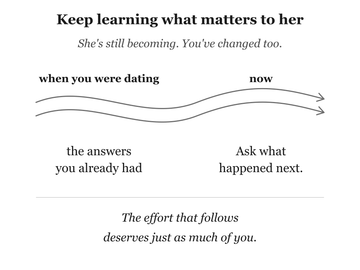
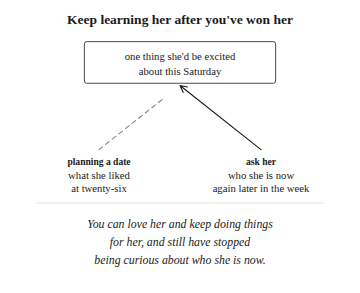
Working apparatus: Ch13 plate standalone read (NOT PASS, three edits); revision in progress
Claude-Session: https://claude.ai/code/session_016ZTaUDtmcUCmLiG1o6hFFK

diff --git a/runs/ch13/plate-notes.md b/runs/ch13/plate-notes.md
@@ -1,22 +1,51 @@
 # Chapter 13 plate notes (attention version, concept C)
 
 Designer desk, draft mode (gw-plate Stage 3). 2026-09-30 14:42 (clock read).
+Revised in gw-plate Stage 6 (the one revision), 2026-09-30 15:03 (clock read),
+against `plate-read.md` (Panel standalone read: NOT PASS, three edits). See
+"Stage 6 revision" below; the sections after it describe the current plate.
 Picked concept: C, "Two routes to Saturday" (`plate-pick.md`; runner-up B).
 Earlier notes for the effort/action plate are in `pre-split/plate-notes.md` and git.
+
+## Stage 6 revision (plate-read.md), applied
+
+1. **Caption (required).** Replaced "What stopped was your curiosity / about who
+   she is now." with the Conversation sentence, trimming only "your wife" to "her"
+   (grounding passes): *You can love her and keep doing things / for her, and still
+   have stopped / being curious about who she is now.* It would not fit on two
+   lines: line one alone measured 24..616 against the 40px margin at the house's
+   21px italic. So it runs to three lines, broken so the last line is the point
+   ("being curious about who she is now."). To make room, the canvas grew from
+   640x480 to 640x520. Nothing above the rule moved. House plates range from 360
+   to 540 tall, and the checker fixes only the width.
+2. **Left bold label (recommended).** "arrange the whole thing" is now **planning a
+   date**. The Panel's "plan it for her" is not the chapter's phrase. "planning a
+   date" is the distillation's own ("Twelve years in, planning a date, you can
+   find you no longer know what she'd want"), and it names ordinary effort, not
+   control. Grounding passes.
+3. **Right label (optional).** "and ask about it again" is now **again later in the
+   week**, which removes the repeated "ask". The Panel's "then ask again later in
+   the week" measured past the right margin at x=464 (the first try, "and again
+   later in the week", measured 310..618), so I dropped the connective. The column
+   now reads *ask her / who she is now / again later in the week*. Grounded in the
+   distillation **Challenge**, "ask about it again later in the week".
+
+The box, both lines and the title are unchanged.
 
 ## What the plate shows
 
 One target at the top, the chapter's own test: *one thing she'd be excited about
 this Saturday*. Two routes rise to it from two mirrored columns.
 
-- Left, grey and dashed: **arrange the whole thing** / what she liked / at
+- Left, grey and dashed: **planning a date** / what she liked / at
   twenty-six. It runs about three quarters of the way to the target and ends on a
   clean round cap, about 40px short. No stop bar.
-- Right, solid with an arrowhead: **ask her** / who she is now / and ask about it
-  again. It lands on the centre of the box's bottom edge (320,152).
+- Right, solid with an arrowhead: **ask her** / who she is now / again later in
+  the week. It lands on the centre of the box's bottom edge (320,152).
 
-Under the rule, the takeaway: *What stopped was your curiosity / about who she is
-now.*
+Under the rule, the takeaway, the Conversation sentence over three lines: *You can
+love her and keep doing things / for her, and still have stopped / being curious
+about who she is now.*
 
 **Carrier:** reach. Doing things for her from what you knew of her years ago falls
 short. Asking her who she is now gets there. Two routes aimed at one point, one
@@ -51,18 +80,18 @@ named ("it shows one question answered, not learning kept up").
    things for her" through the drawing, so the caption only has to say what stopped.
    It also takes "She's changed" out of the subject position, as the Panel asked.
 
-## Copy and sources (40 words, 11 text elements)
+## Copy and sources (55 words, 12 text elements; current after Stage 6)
 
 | Text | Words | Source |
 |---|---|---|
 | Keep learning her after you've won her | 7 | distillation **Mechanism**, verbatim |
 | one thing she'd be excited / about this Saturday | 8 | refined, "The date you can't plan": "You can't name one thing she'd be excited about this Saturday."; distillation **Challenge** |
-| arrange the whole thing | 4 | refined, same scene: "You want to arrange the whole thing yourself." |
+| planning a date | 3 | distillation body: "Twelve years in, planning a date, you can find you no longer know what she'd want" |
 | what she liked / at twenty-six | 5 | refined, same scene: "You know what she liked at twenty-six." |
 | ask her | 2 | refined: "So you ask her."; distillation **Challenge**: "If you can't, ask her" |
 | who she is now | 4 | refined: "What stopped was your curiosity about who she is now."; distillation **Conversation sentence** and **Lesson** |
-| and ask about it again | 5 | distillation **Challenge**: "ask her, and ask about it again later in the week"; refined: "and then asked about it again" |
-| What stopped was your curiosity / about who she is now. | 10 | refined, "When the attention changed", verbatim, one sentence over two lines |
+| again later in the week | 5 | distillation **Challenge**: "ask her, and ask about it again later in the week" |
+| You can love her and keep doing things / for her, and still have stopped / being curious about who she is now. | 21 | distillation **Conversation sentence**, verbatim except "your wife" to "her"; one sentence over three lines |
 
 Every phrase is the chapter's or the distillation's. No Author additions used. No
 numbers, no quotation, no Stoic term (so no gloss needed), no em-dash.
@@ -80,17 +109,17 @@ straight. There is no wavy or river-like line.
 
 ## Format checklist
 
-- [x] Every centred text sits on x=320 or a shared column (x=176 / x=464): 11 texts.
+- [x] Every centred text sits on x=320 or a shared column (x=176 / x=464): 12 texts.
 - [x] The drawing is centred or mirrored: the box is on x=320, and the two routes mirror on it and meet at (320,152).
-- [x] Canvas 640 wide (640x480).
-- [x] Caption count within the cap: 2 italic lines against a cap of 4.
+- [x] Canvas 640 wide (640x520 after Stage 6, to fit the three-line caption).
+- [x] Caption count within the cap: 3 italic lines against a cap of 4.
 - [x] No bare `text-anchor` attribute. All anchors are set in classes.
 - [x] Every shape has an explicit fill (the paths set `fill:none` in `.ln` and `.rule`).
-- [x] Rendered to `runs/ch13/pdf/plate.png` and looked at. Nothing clips or collides, the dashed end reads as short of the box, and the arrowhead sits under the box's centre.
+- [x] Rendered to `runs/ch13/pdf/plate.png` (1920x1560) and `plate-phone.png` (360 wide) after Stage 6, and looked at. Nothing clips or collides, the dashed end reads as short of the box, the arrowhead sits under the box's centre, and all three caption lines sit inside the margins.
 
 ## plate_check.py (Designer's run; the Publisher runs it again)
 
-`python3 scripts/plate_check.py runs/ch13/plate.svg --chapter 13`, run after the render:
+`python3 scripts/plate_check.py runs/ch13/plate.svg --chapter 13`, Stage 6 run after the re-render:
 
 ```text
 runs/ch13/plate.svg
@@ -99,11 +128,11 @@ runs/ch13/plate.svg
   [ ok ] anchor-attr anchors set in classes or inline styles only
   [ ok ] em-dash     none
   [ ok ] digits      none
-  [ ok ] canvas      640x480
+  [ ok ] canvas      640x520
   [ ok ] title       title "Keep learning her after you've won her" / aria-label "Keep learning her after you've won her" vs Mechanism "Keep learning her after you've won her"
   [ ok ] grounded    each text has a three-word match in permitted source copy
-  [ ok ] captions    2 italic lines against a cap of 4 (2 labels + subtitle + closing line)
-  [ ok ] alignment   11 centred texts on the axis or a shared column; 0 drawing blocks centred or mirrored
+  [ ok ] captions    3 italic lines against a cap of 4 (2 labels + subtitle + closing line)
+  [ ok ] alignment   12 centred texts on the axis or a shared column; 0 drawing blocks centred or mirrored
   [ ok ] ink         no rendered ink inside the 40px margin bands (dark px {'left': 0, 'right': 0, 'top': 0, 'bottom': 0})
   [ ok ] raster-current preview matches source pixels at its own scale
 ```
@@ -114,10 +143,14 @@ make room for the third line in each column.
 
 ## For the author to rule on
 
-1. **"arrange the whole thing"** stands in for the Panel's "the plan you made",
-   which the chapter never says. The fallback is "you chose the place" ("You chose
-   the place and made the reservation."), but that comes from the dinner scene, not
-   the Saturday scene.
+1. **"planning a date"** (Stage 6) replaces "arrange the whole thing" and stands in
+   for the Panel's "plan it for her", which the chapter never says. It is the
+   distillation's phrase, not the refined chapter's. If he wants the chapter's own
+   words, the fallback is "arrange the whole thing", which the Panel read as
+   calling his effort the mistake.
+4. **Canvas height** went from 480 to 520 so the Conversation sentence fits at the
+   house caption size. The other option was a smaller caption face, which would
+   break the style.
 2. **"who she is now" appears twice**, once in the right column and once in the
    takeaway. I kept it on purpose so the takeaway points back at the route that
    arrives. If it reads as repetition, the right column can drop to "ask her / and

diff --git a/runs/ch13/plate-read.md b/runs/ch13/plate-read.md
@@ -1,17 +1,40 @@
-# Chapter 13 cold plate read
+# Ch13 plate: standalone read (gw-plate Stage 5)
 
-## Before reading the distillation
+Plate: `runs/ch13/pdf/plate.png`. I read it alone first and wrote sections 1-4 before opening `runs/ch13/distillation.md`.
 
-**Ten-second phone takeaway:** My wife is still changing, so I should keep asking about what matters to her now, pay attention to her answers, and share her pleasure rather than assume I already know her from dating.
+## 1. The blind read (one sentence)
 
-**Strongest plausible misreading:** “Ask what happened next” could be taken narrowly as asking for the next event in a story, instead of maintaining curiosity about her changing life and interests.
+"If you plan her Saturday around what she liked when you met her, you'll miss. Ask her who she is now, because you're the one who stopped being curious."
 
-## Verdict: PASS
+## 2. The two lines and the box, as he reads them
 
-The cold takeaway conveys paying attention to who the couple is becoming in the reader's own words: the dating-to-now contrast makes old knowledge visibly incomplete, and “You've changed too” makes the change mutual. Interest in her answer and pleasure for her carry the intended movement from curiosity to warmth. The possible narrow reading of the challenge is contained by the headline and changing-person context; it does not displace the principal takeaway.
+- **Box**, "one thing she'd be excited about this Saturday", is the target. It's concrete and he can picture it. It works.
+- **Grey dashed line** from "arrange the whole thing / what she liked at twenty-six" stops short of the box and has no arrowhead. He reads it as effort built on old information that never reaches her. It reads as intended: a miss, not an unfinished line.
+- **Solid arrow** from "ask her / who she is now and ask about it again" reaches the box. He reads it as the move that works.
 
-**Essential edits:** None.
+## 3. The skeptic's misreading
 
-**Read:** `runs/ch13/pdf/plate.png` alone first; then `runs/ch13/plate-distillation.md` and `.claude/agents/gw-panel.md`.
+- **"Arranging is the wrong move."** The bold label on the losing branch is "arrange the whole thing", so a man who plans dates reads it as the plate calling his effort the mistake and telling him to stop leading and just ask. The chapter doesn't say that. Its point is that the effort is real and the information behind it is stale. Nothing on the plate says the effort is fine. This is the main misreading.
+- **Accusation.** The caption "What stopped was your curiosity" points at him with nothing to soften it. Without the concession that he still loves her and still does things for her, a defensive reader hears "you stopped caring," which is an accusation.
+- **"She changed" as a grievance.** This is mild. "what she liked at twenty-six" against "who she is now" can be read as "she's not the woman I married." The caption puts the change on his curiosity, not on her, so the plate mostly blocks this. It's a low risk.
+- **"won her"** is trophy language, but it is the mechanism verbatim, so I note it and don't propose an edit.
 
-**Not read:** The chapter, brief, prior reports, or other manuscript materials.
+## 4. Layout defects
+
+- The right label repeats "ask": "**ask her** / who she is now / and ask about it again". The second "ask" is tied to the time element that's missing. Minor.
+- The two lines end at different heights (dashed about 530px, arrow about 455px). That's intentional and reads correctly.
+- No overlaps or clipping. The hierarchy (title, box, branches, rule, caption) is clean.
+
+## 5. Against the distillation
+
+Conversation sentence: *"You can love your wife and keep doing things for her, and still have stopped being curious about who she is now."*
+
+My blind sentence gets the second half: curiosity stopped, about who she is now. It misses the first half, the concession that he loves her and keeps doing things for her. That concession is what makes the sentence the chapter's and not an accusation, and its absence is what opens both skeptic readings in section 3.
+
+**Verdict: NOT PASS. Edit list:**
+
+1. **Caption (required).** Replace "What stopped was your curiosity / about who she is now." with the Conversation sentence in the author's words, split over two lines: "You can love her and keep doing things for her, / and still have stopped being curious about who she is now." This puts the concession on the plate, turns the caption from accusation into recognition, and tells him the dashed branch is still love that misses its target, not the wrong move.
+2. **Left bold label (recommended).** Relabel "arrange the whole thing" to "plan it for her". Keep the subline "what she liked / at twenty-six". This softens the branch from "controlling the whole thing" to ordinary effort, which matches "keep doing things for her."
+3. **Right label (optional).** Relabel "who she is now / and ask about it again" to "who she is now, / then ask again later in the week". This removes the repeated "ask" and matches the Challenge line.
+
+Do not change the box, the two lines or the title.

diff --git a/runs/design/plate-briefs.md b/runs/design/plate-briefs.md
@@ -148,11 +148,11 @@ The historical predecessor is `runs/design/2026-09-20-plate-names-and-visual-sum
 
 **Intent:** You can love your wife and keep doing things for her, and still have stopped being curious about who she is now. Keep learning who she is now, and ask again.
 
-**Visual explanation:** One target, the chapter's own test: one thing she'd be excited about this Saturday. The grey dashed route, arranging the whole thing from what she liked at twenty-six, runs most of the way and stops short. The solid route, asking her who she is now and asking about it again, arrives at the centre. The takeaway under the rule says what stopped: curiosity. It does not say that remembering is useless. The chapter says remembering the answer is what she notices.
+**Visual explanation:** One target, the chapter's own test: one thing she'd be excited about this Saturday. The grey dashed route, planning a date from what she liked at twenty-six, runs most of the way and stops short. The solid route, asking her who she is now and again later in the week, arrives at the centre. The takeaway under the rule is the Conversation sentence: you can love her and keep doing things for her, and still have stopped being curious about who she is now. It concedes the love and the effort, so the dashed route reads as real effort on old information, not as the wrong move and not as an accusation. It does not say that remembering is useless. The chapter says remembering the answer is what she notices.
 
 **Validation question:** Why does one route reach the box and the other stop short, when both are aimed at it?
 
-**Source:** runs/ch13/plate.svg; runs/ch13/plate-notes.md; runs/ch13/distillation.md; runs/ch13/refined.md ("The date you can't plan"; "When the attention changed")
+**Source:** runs/ch13/plate.svg; runs/ch13/plate-notes.md; runs/ch13/distillation.md; runs/ch13/refined.md ("The date you can't plan"; "When the attention changed"); runs/ch13/plate-read.md (Panel standalone read, three edits applied 2026-09-30)
 
 ## part-III | The Warm Sun
 
